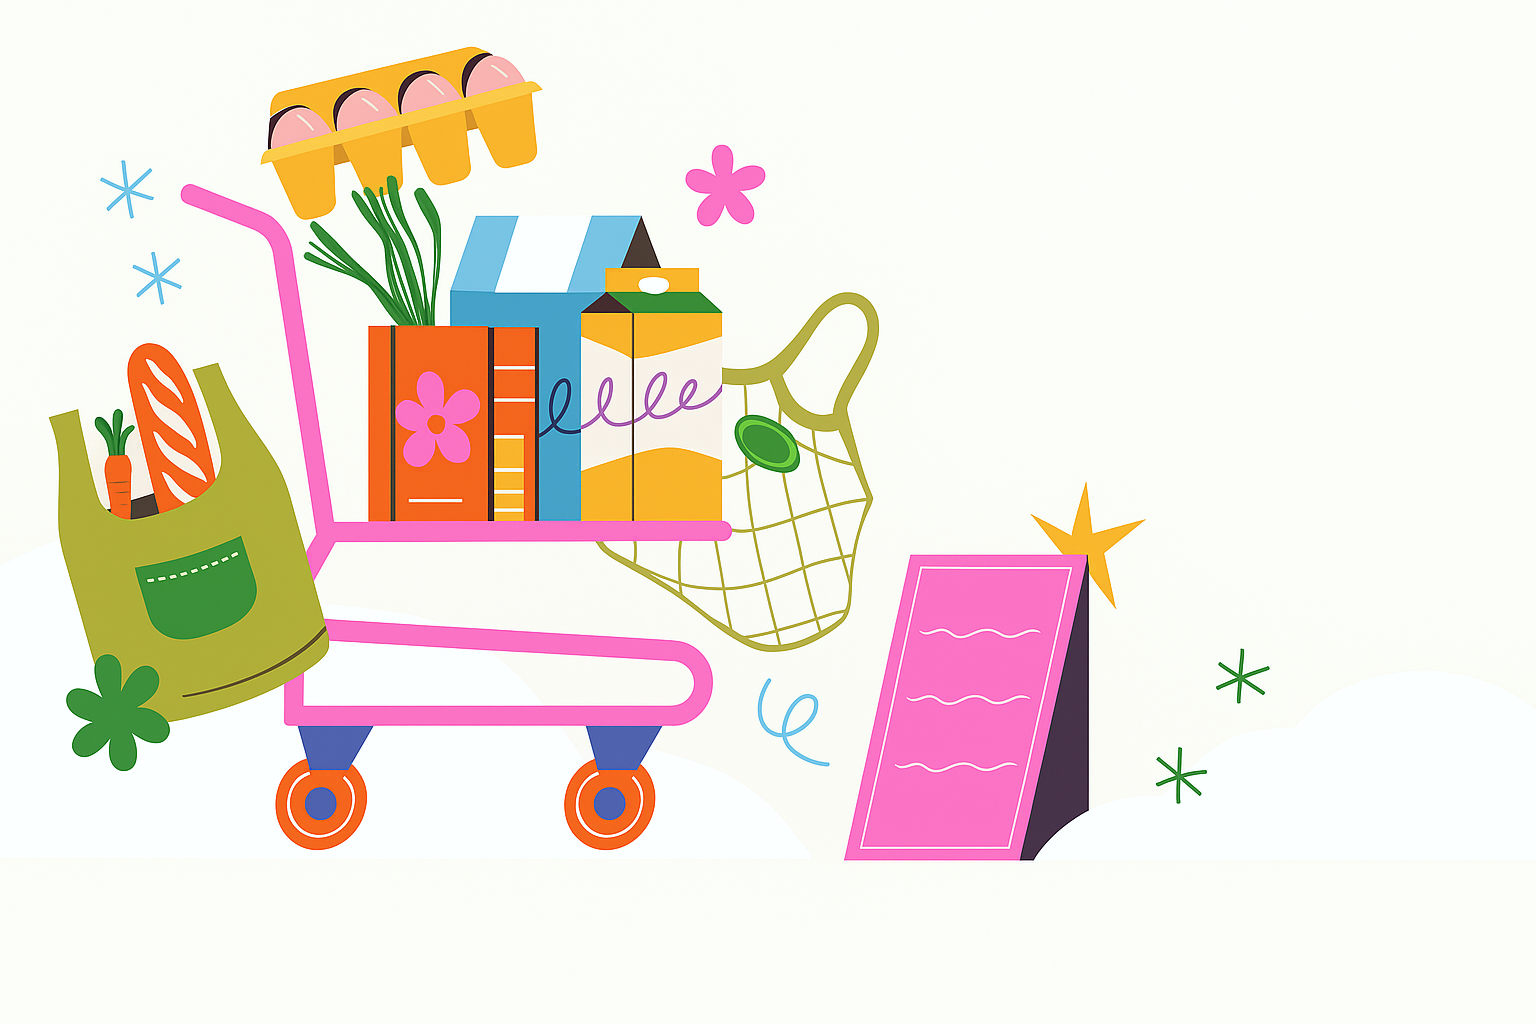
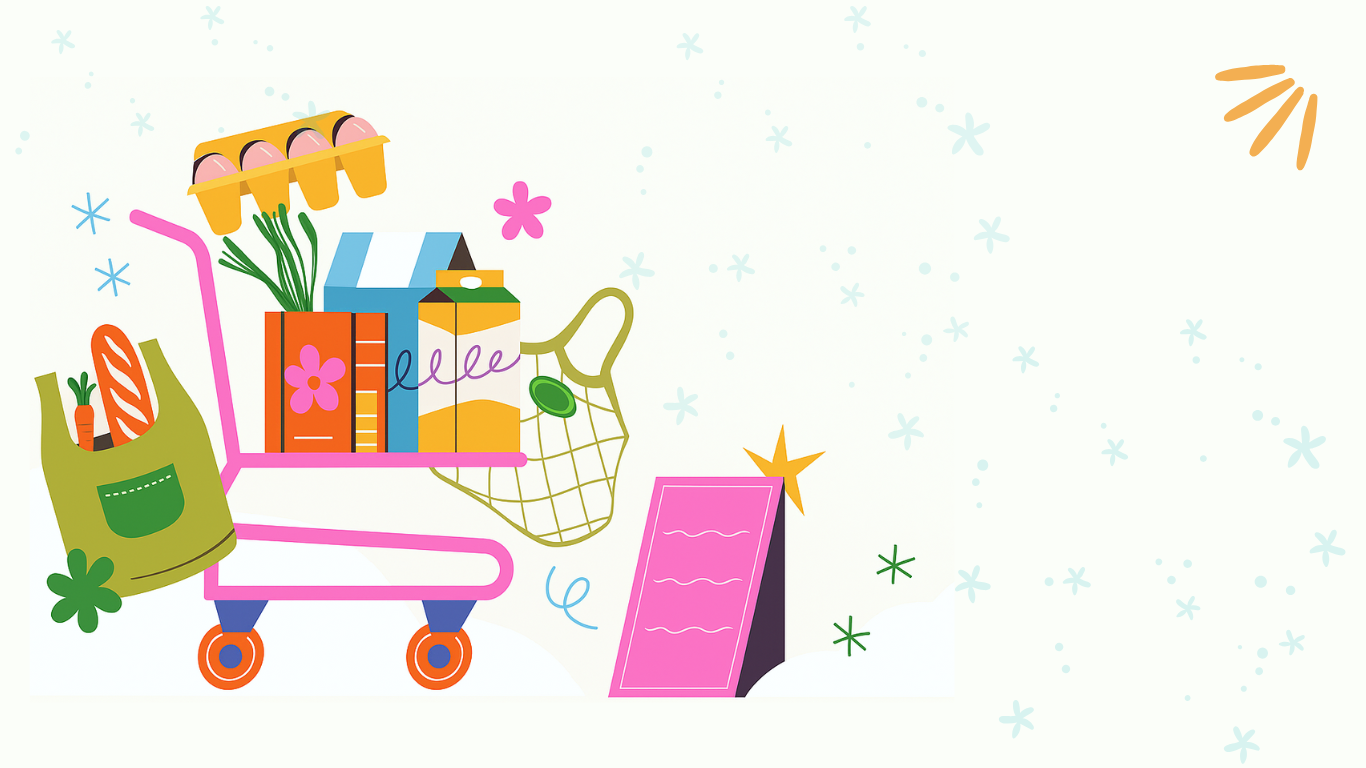
se agrega logica para mostrar u ocultar secciones segun rol

diff --git a/frontend/easyfood/src/routes/users/productos/+page.svelte b/frontend/easyfood/src/routes/users/productos/+page.svelte
@@ -6,7 +6,9 @@
 		getProducts,
 		updateProduct,
 		deleteProduct,
-		createProduct, getCategory
+		createProduct,
+		getCategory,
+		isAdminUser
 	} from '$lib/services/api';
 
 	let productos = [];
@@ -23,68 +25,59 @@
 
 	let isEdit = false;
 	let categoriaSeleccionada = 'todas';
+	let esAdmin = false;
 
 	$: productosFiltrados = productos.filter(
-	(p) => categoriaSeleccionada === 'todas' || p.category === categoriaSeleccionada);
+		(p) => categoriaSeleccionada === 'todas' || p.category === categoriaSeleccionada
+	);
 
 	onMount(async () => {
-		productos = await getProducts();;
-
+		productos = await getProducts();
 		categorias = await getCategory();
-
+		esAdmin = isAdminUser();
 	});
+
 	function abrirModal(nuevo = true, datos = null) {
-	isEdit = !nuevo;
+		isEdit = !nuevo;
 
-	producto = datos
-		? {
-				id: datos.id,
-				name: datos.name,
-				price: datos.price,
-				quantity: datos.quantity,
-				expirationDate: datos.expirationDate,
-				category: datos.categoryChange // ← usamos el ID correcto aquí
-		  }
-		: {
-				id: null,
-				name: '',
-				price: '',
-				quantity: '',
-				expirationDate: '',
-				category: ''
-		  };
+		producto = datos
+			? {
+					id: datos.id,
+					name: datos.name,
+					price: datos.price,
+					quantity: datos.quantity,
+					expirationDate: datos.expirationDate,
+					category: datos.categoryChange
+			  }
+			: {
+					id: null,
+					name: '',
+					price: '',
+					quantity: '',
+					expirationDate: '',
+					category: ''
+			  };
 
-	const modal = new bootstrap.Modal(document.getElementById('productoModal'));
-	modal.show();
-}
+		const modal = new bootstrap.Modal(document.getElementById('productoModal'));
+		modal.show();
+	}
 
-
-
-	// guardar producto
 	async function guardarProducto() {
 		const token = localStorage.getItem('token');
 
 		if (isEdit && producto.id) {
 			const ok = await updateProduct(producto, token);
-			console.log(producto, 'Producto');
 			if (ok) {
-				console.log(producto, 'Producto actualizado');
 				location.reload();
-			} else {
-				console.log('Error al actualizar producto');
 			}
 		} else {
 			const ok = await createProduct(producto, token);
 			if (ok) {
-				console.log('Producto creado');
 				location.reload();
-			} else {
-				console.log('Error al crear producto');
 			}
 		}
 	}
 
-	// Eliminar producto
 	async function eliminarProducto(id) {
 		const token = localStorage.getItem('token');
 		const resultado = await deleteProduct(id, token);
@@ -125,10 +118,7 @@
 </script>
 
 <!-- HTML -->
-<div
-	class="container row d-flex justify-content-center text-center"
-	style="max-width: 1200px; margin:50px auto;"
->
+<div class="container row d-flex justify-content-center text-center" style="max-width: 1200px; margin:50px auto;">
 	<div class="text-center"><h1>Administración de Productos</h1></div>
 
 	<div class="d-flex justify-content-between align-items-center mb-3">
@@ -157,7 +147,9 @@
 					<th>Precio Venta</th>
 					<th>Stock</th>
 					<th>Fecha Vencimiento</th>
-					<th>Acciones</th>
+					{#if esAdmin}
+						<th>Acciones</th>
+					{/if}
 				</tr>
 			</thead>
 			<tbody>
@@ -168,50 +160,47 @@
 						<td>${p.price}</td>
 						<td>{p.quantity}</td>
 						<td>{formatearFecha(p.expirationDate)}</td>
-						<td>
-							<div class="d-flex justify-content-center g-5">
-								<button class="btn btn-sm btn-warning me-2" on:click={() => abrirModal(false, p)}>
-									<i class="bi bi-pencil-square"></i> Editar
-								</button>
-								<button class="btn btn-sm btn-danger" on:click={() => eliminarProducto(p.id)}>
-									<i class="bi bi-trash"></i> Eliminar
-								</button>
-							</div>
-						</td>
+						{#if esAdmin}
+							<td>
+								<div class="d-flex justify-content-center g-5">
+									<button class="btn btn-sm btn-warning me-2" on:click={() => abrirModal(false, p)}>
+										<i class="bi bi-pencil-square"></i> Editar
+									</button>
+									<button class="btn btn-sm btn-danger" on:click={() => eliminarProducto(p.id)}>
+										<i class="bi bi-trash"></i> Eliminar
+									</button>
+								</div>
+							</td>
+						{/if}
 					</tr>
 				{/each}
 				{#if productos.length === 0}
 					<tr>
-						<td colspan="7" class="text-center">No hay productos</td>
+						<td colspan={esAdmin ? 6 : 5} class="text-center">No hay productos</td>
 					</tr>
 				{/if}
 			</tbody>
 		</table>
 
-		<div class="d-flex justify-content-end">
-			<button class="btn btn-primary" on:click={() => abrirModal(true)}>
-				<i class="bi bi-plus-circle"></i> Agregar Producto
-			</button>
-		</div>
+		{#if esAdmin}
+			<div class="d-flex justify-content-end">
+				<button class="btn btn-primary" on:click={() => abrirModal(true)}>
+					<i class="bi bi-plus-circle"></i> Agregar Producto
+				</button>
+			</div>
+		{/if}
 	</div>
 </div>
 
 <!-- Modal -->
-<div
-	class="modal fade"
-	id="productoModal"
-	tabindex="-1"
-	aria-labelledby="productoModalLabel"
-	aria-hidden="true"
->
+<div class="modal fade" id="productoModal" tabindex="-1" aria-labelledby="productoModalLabel" aria-hidden="true">
 	<div class="modal-dialog">
 		<div class="modal-content" transition:fade>
 			<div class="modal-header">
 				<h5 class="modal-title" id="productoModalLabel">
 					{isEdit ? 'Editar Producto' : 'Agregar Producto'}
 				</h5>
-				<button type="button" class="btn-close" data-bs-dismiss="modal" aria-label="Cerrar"
-				></button>
+				<button type="button" class="btn-close" data-bs-dismiss="modal" aria-label="Cerrar"></button>
 			</div>
 			<div class="modal-body">
 				<form on:submit|preventDefault={guardarProducto}>

diff --git a/frontend/easyfood/src/lib/services/api.js b/frontend/easyfood/src/lib/services/api.js
@@ -17,6 +17,8 @@ export const postLogin = async (username, password) => {
 			KEY = response.headers.get('Authorization');
 			localStorage.setItem('token', KEY);
             localStorage.setItem('username', username);
+            // localStorage.setItem('roles', JSON.stringify(user.roles));
+            // console.log(localStorage.setItem('roles', JSON.stringify(user.roles)))
 
 			return response;
          
@@ -450,3 +452,26 @@ export async function updatePassword(user) {
 		return false;
 	}
 }
+
+
+// filtro admin
+
+export function isAdminUser() {
+	const token = localStorage.getItem('token');
+	if (!token) return false;
+
+	try {
+		const payload = token.split('.')[1];
+		const decodedPayload = JSON.parse(atob(payload));
+		const roles = decodedPayload.roles || [];
+
+		console.log('Roles:', roles);
+		return roles.includes('ADMIN') || roles.includes('OWNER');
+	} catch (err) {
+		console.error('Error al decodificar JWT', err);
+		return false;
+	}
+}
+
+
+

diff --git a/frontend/easyfood/src/lib/components/Navbar.svelte b/frontend/easyfood/src/lib/components/Navbar.svelte
@@ -2,8 +2,13 @@
 <script>
 import { onMount } from 'svelte';
 import { fade } from 'svelte/transition';
-import { logout } from '$lib/services/api';
+import { logout, isAdminUser } from '$lib/services/api';
+let isAdmin = false;
+onMount(() => {
+		isAdmin = isAdminUser();
+	});
 </script>
+
 
 <nav class="navbar navbar-expand-lg">
 	<div class="container-fluid">
@@ -30,7 +35,7 @@ import { logout } from '$lib/services/api';
 				<li class="nav-item">
 					<a class="nav-link" href="/users/venta">Venta</a>
 				</li>
-				<li class="nav-item">
+				<li class="nav-item  {isAdmin ? '' : 'd-none'} ">
 					<a class="nav-link" href="/users/manejarUsuarios">Manejo Usuarios</a>
 				</li>
 

diff --git a/frontend/easyfood/src/routes/users/manejarUsuarios/+page.svelte b/frontend/easyfood/src/routes/users/manejarUsuarios/+page.svelte
@@ -1,7 +1,9 @@
 <script>
 	import { onMount } from 'svelte';
 	import { fade } from 'svelte/transition';
-	import { getUsers,deleteUser,updateUser,createUser,updatePassword } from '$lib/services/api';
+	import { getUsers,deleteUser,updateUser,createUser,updatePassword, isAdminUser } from '$lib/services/api';
+	let isAdmin = isAdminUser();
+
 
 	let usuarios = [
 	];

diff --git a/frontend/easyfood/src/routes/+page.svelte b/frontend/easyfood/src/routes/+page.svelte
@@ -65,8 +65,9 @@
 <style>
 .inicio{
 	background-image: url("/img/fondo-easyfood.png");
-	/* background-position: left bottom; */
+	background-position: center;
 	background-repeat: no-repeat;
+	background-size: cover;
 }
 
 
